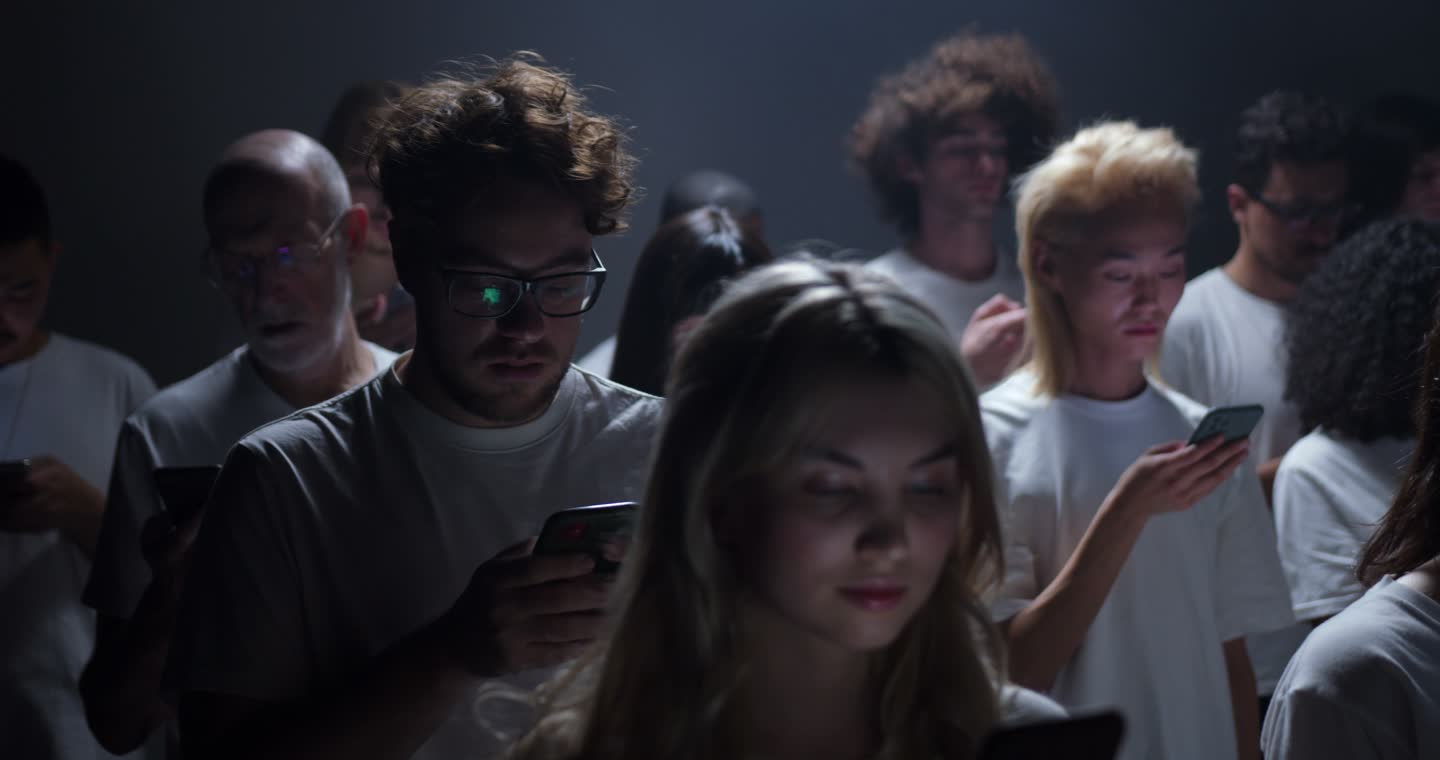
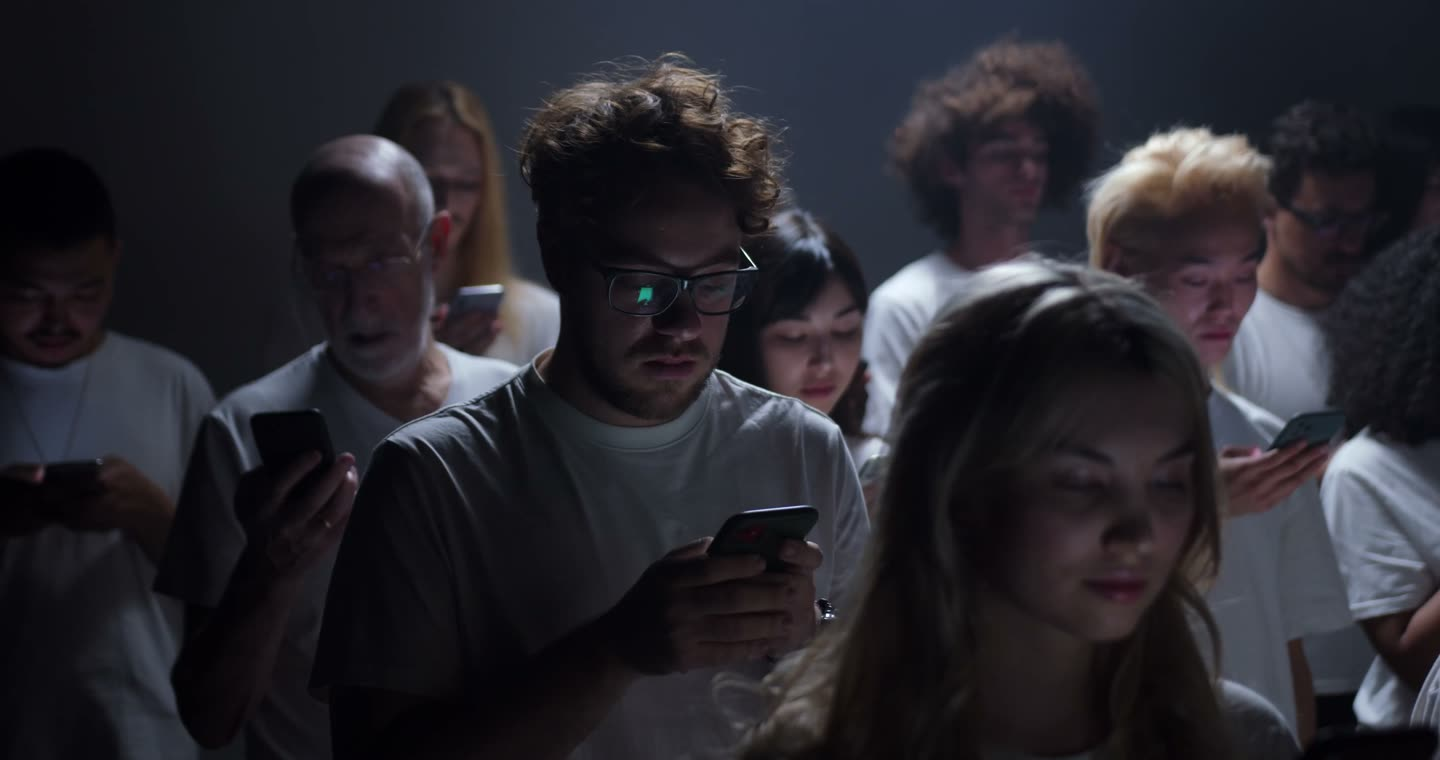
Hero : raccord vidéo net, fini le fondu vers le papier
Deux défauts empilés :
- l'affiche était extraite à 3 s alors que la vidéo démarre à 0 s ; le fondu de
  1,4 s superposait deux images différentes (effet de double exposition).
  L'affiche est maintenant la première image, le raccord est invisible et le
  fondu tombe à 0,3 s ;
- le dégradé finissait sur la couleur papier : mélanger du noir vers du crème
  salissait tout le bas de l'image. Remplacé par un simple voile de lisibilité
  et un bord franc entre le hero et la section suivante.

diff --git a/index.html b/index.html
@@ -93,11 +93,18 @@ h1,h2,h3,.num{font-family:var(--display);letter-spacing:-.025em;line-height:1.06
 .hero{position:relative;min-height:100svh;display:flex;flex-direction:column;background:var(--night);color:var(--cream);overflow:hidden}
 .hero video,.hero .poster{position:absolute;inset:0;width:100%;height:100%;object-fit:cover;z-index:0}
 .hero .poster{background:url(media/hero-poster.jpg) center/cover no-repeat}
-.hero video{opacity:0;transition:opacity 1.4s ease}
+/* L'affiche est la PREMIÈRE image de la vidéo : le passage de l'une à l'autre est
+   invisible, donc un fondu court suffit (un fondu long sur deux images
+   différentes donnait un effet de double exposition). */
+.hero video{opacity:0;transition:opacity .3s linear}
 .hero video.on{opacity:1}
-/* Dégradés : lisibilité du texte + fondu vers le papier de la section suivante. */
+/* Voile de lisibilité UNIQUEMENT — pas de fondu vers le papier : mélanger du
+   noir vers du crème salissait tout le bas de l'image. Le hero se termine net,
+   et la section papier commence franchement. */
 .hero::after{content:"";position:absolute;inset:0;z-index:1;pointer-events:none;
-  background:linear-gradient(180deg,rgba(12,8,4,.82) 0%,rgba(12,8,4,.34) 38%,rgba(12,8,4,.88) 84%,var(--paper) 100%)}
+  background:
+    linear-gradient(180deg,rgba(12,8,4,.58) 0%,rgba(12,8,4,.10) 30%,rgba(12,8,4,.42) 60%,rgba(12,8,4,.88) 100%),
+    radial-gradient(130% 78% at 50% 4%,transparent 42%,rgba(12,8,4,.40) 100%)}
 .hero .wrap{position:relative;z-index:2;display:flex;flex-direction:column;flex:1;padding-top:34px;padding-bottom:38px}
 .brand{font-family:var(--display);font-weight:800;font-size:23px;letter-spacing:-.035em;display:flex}
 .brand i{font-style:normal;opacity:0;transform:translateY(14px);animation:pop .5s cubic-bezier(.2,.8,.3,1) forwards}
